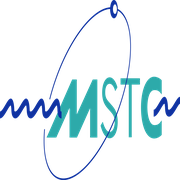
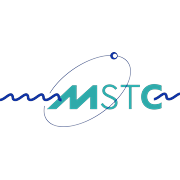
Add files via upload
General fix in icons (keeping scale now). And trying to make sure nothing goes under the navbar.

diff --git a/styles.css b/styles.css
@@ -98,11 +98,11 @@ body {
 .sway-container {
   position: relative;
   width: 100vw;       /* full viewport width */
-  height: 80vh;       /* adjust as needed */
+  height: 70vh;       /* adjust as needed */
   overflow: hidden;
   margin-left: calc(-50vw + 50%); /* remove side white space */
   z-index: 0;         /* below navbar */
-  top: 0;             /* flush with top */
+  margin-top: 60px;   /* offset for fixed navbar height */
 }
 
 .sway-container iframe {
@@ -113,3 +113,4 @@ body {
   height: 100%;
   border: 0;
 }
+

diff --git a/images/make_icons.py b/images/make_icons.py
@@ -1,22 +1,38 @@
 from PIL import Image
 
 # Open your original icon
-original_icon = "MSTC logo kleur RGB.png"  # your 512x512 image
+original_icon = "MSTC logo kleur RGB.png"
 img = Image.open(original_icon)
 
 # Define the sizes we need
 sizes = {
-    "apple-touch-icon.png": (180, 180),  # iOS
-    "icon-32.png": (32, 32),             # favicon
-    "icon-192.png": (192, 192),          # Android
-    "icon-512.png": (512, 512),          # Android splash
+    "apple-touch-icon.png": 180,
+    "icon-32.png": 32,
+    "icon-192.png": 192,
+    "icon-512.png": 512,
 }
 
-# Generate the resized icons
-for filename, size in sizes.items():
-    resized_img = img.resize(size, Image.LANCZOS)
-    resized_img.save(filename, format="PNG")
-    print(f"Saved {filename} ({size[0]}x{size[1]})")
+for filename, target_size in sizes.items():
+    # Create a square canvas with transparency
+    square_img = Image.new("RGBA", (target_size, target_size), (0, 0, 0, 0))
+    
+    # Resize the original while keeping aspect ratio
+    img_ratio = img.width / img.height
+    if img_ratio > 1:  # width > height
+        new_width = target_size
+        new_height = int(target_size / img_ratio)
+    else:              # height >= width
+        new_height = target_size
+        new_width = int(target_size * img_ratio)
+    
+    resized_img = img.resize((new_width, new_height), Image.LANCZOS)
+    
+    # Paste the resized image centered on the square canvas
+    paste_x = (target_size - new_width) // 2
+    paste_y = (target_size - new_height) // 2
+    square_img.paste(resized_img, (paste_x, paste_y), resized_img.convert("RGBA"))
+    
+    square_img.save(filename, format="PNG")
+    print(f"Saved {filename} ({target_size}x{target_size})")
 
 print("All icons generated successfully!")
-
